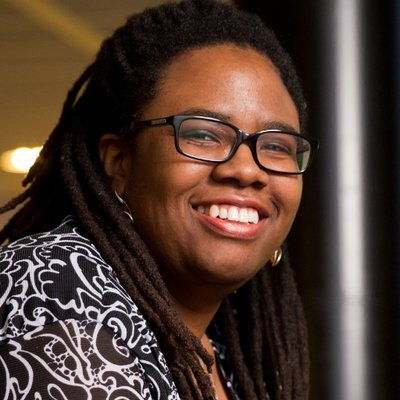
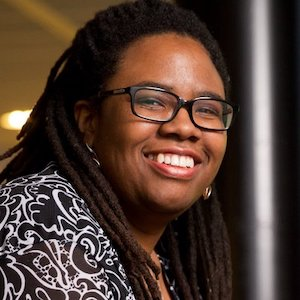
commit na demo team

diff --git a/docs/index.html b/docs/index.html
@@ -147,7 +147,7 @@
          <div class="row team">
            <div class="col-sm-1"></div>
            <div class="col-sm-5 member">
-             <img src="./2023/img/team/alex.jpg" alt="Alex Kuiper"/>
+             <img src="./2023/img/team/alex.jpg" class="center-block img-circle" alt="Alex Kuiper"/>
              <h2>Alex Kuiper</h2>
              <div class="twitter"><a href="https://twitter.com/nightwhistler" target="_blank">@NightWhistler</a></div>
              <div>
@@ -155,7 +155,7 @@
              </div>
            </div>
            <div class="col-sm-5 member">
-             <img src="./2023/img/team/erik.pronk.jpg" alt="Erik Pronk"/>
+             <img src="./2023/img/team/erik.jpg" class="center-block img-circle" alt="Erik Pronk"/>
              <h2>Erik Pronk</h2>
              <div class="twitter"><a href="https://twitter.com/erikjpronk" target="_blank">@ErikJPronk</a></div>
              <div>
@@ -168,7 +168,7 @@
          <div class="row team">
            <div class="col-sm-1"></div>
            <div class="col-sm-5 member">
-             <img src="./2023/img/team/paul.jpg" alt="Paul van der Maden" />
+             <img src="./2023/img/team/paul.jpg" class="center-block img-circle" alt="Paul van der Maden" />
              <h2>Paul van der Maden</h2>
              <div class="twitter"></div>
              <div>
@@ -178,7 +178,7 @@
 
            <div class="col-sm-1"></div>
            <div class="col-sm-5 member">
-             <img src="./2023/img/team/arthurOriginal.jpg" alt="Arthur van Leeuwen" />
+             <img src="./2023/img/team/arthur.jpg" class="center-block img-circle" alt="Arthur van Leeuwen" />
              <h2>Arthur van Leeuwen</h2>
              <div class="twitter"><a href="https://twitter.com/earthy_" target="_blank">@earthy_</a></div>
              <div>
@@ -189,7 +189,7 @@
          <div class="row team">
            <div class="col-sm-1"></div>
            <div class="col-sm-5 member">
-             <img src="./2023/img/team/jenny.jpg" alt="Jenny Biekman" />
+             <img src="./2023/img/team/jenny.jpg" class="center-block img-circle" alt="Jenny Biekman" />
              <h2>Jenny Biekman</h2>
              <div class="twitter"><a href="https://twitter.com/Jenny_KuiBie" target="_blank">@Jenny_KuiBie</a></div>
              <div>
@@ -199,7 +199,7 @@
 
            <div class="col-sm-1"></div>
            <div class="col-sm-5 member">
-             <img src="./2023/img/team/elineOriginal.jpg" alt="Eline Brader" />
+             <img src="./2023/img/team/eline.jpg" class="center-block img-circle" alt="Eline Brader" />
              <h2>Eline Brader</h2>
              <div class="twitter"><a href="https://twitter.com/ElineTweet" target="_blank">@ElineTweet</a></div>
              <div>
@@ -210,7 +210,7 @@
          <div class="row team">
            <div class="col-sm-4"></div>
            <div class="col-sm-5 member">
-             <img src="./2023/img/team/yosufOriginal.jpg" alt="Yosuf Haydary" />
+             <img src="./2023/img/team/yosuf.jpg" class="center-block img-circle" alt="Yosuf Haydary" />
              <h2>Yosuf Haydary</h2>
              <div class="twitter"><a href="https://twitter.com/YosufHaydary" target="_blank">@YosufHaydary</a></div>
              <div>
